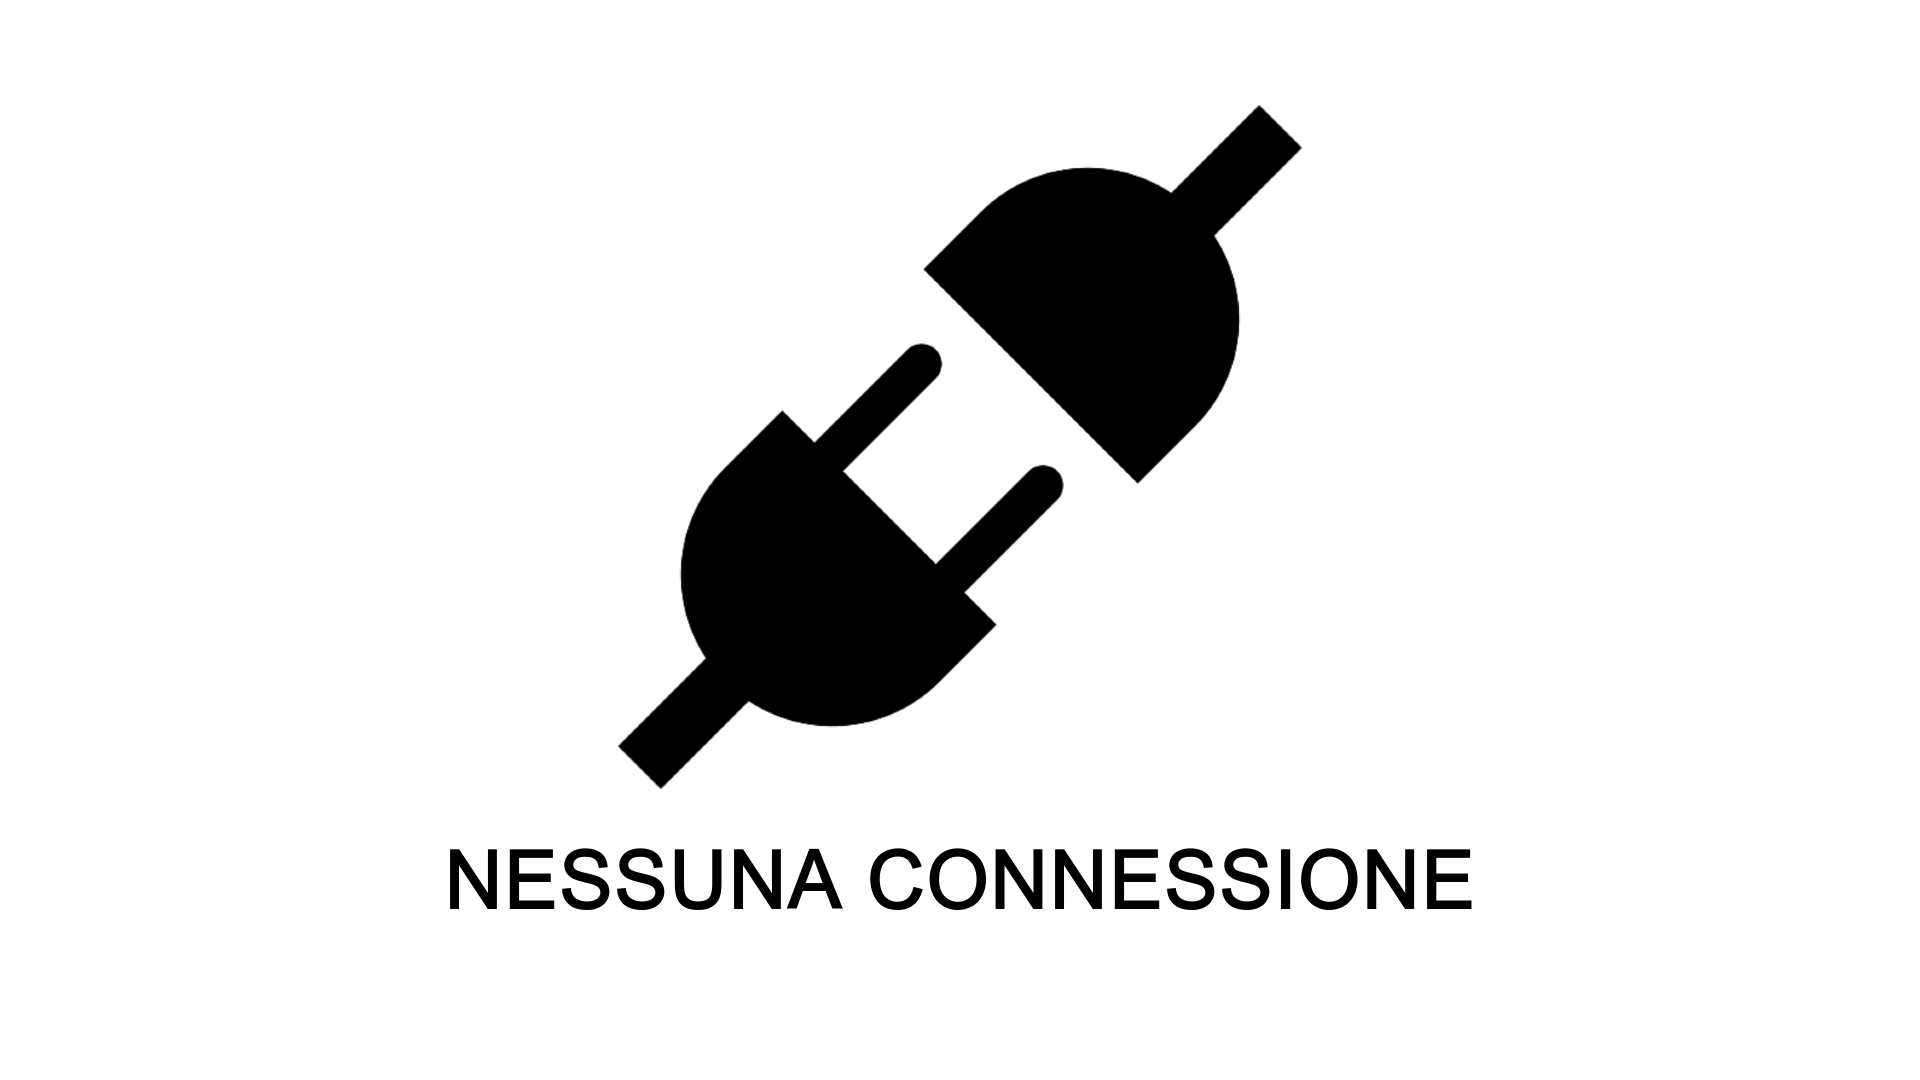
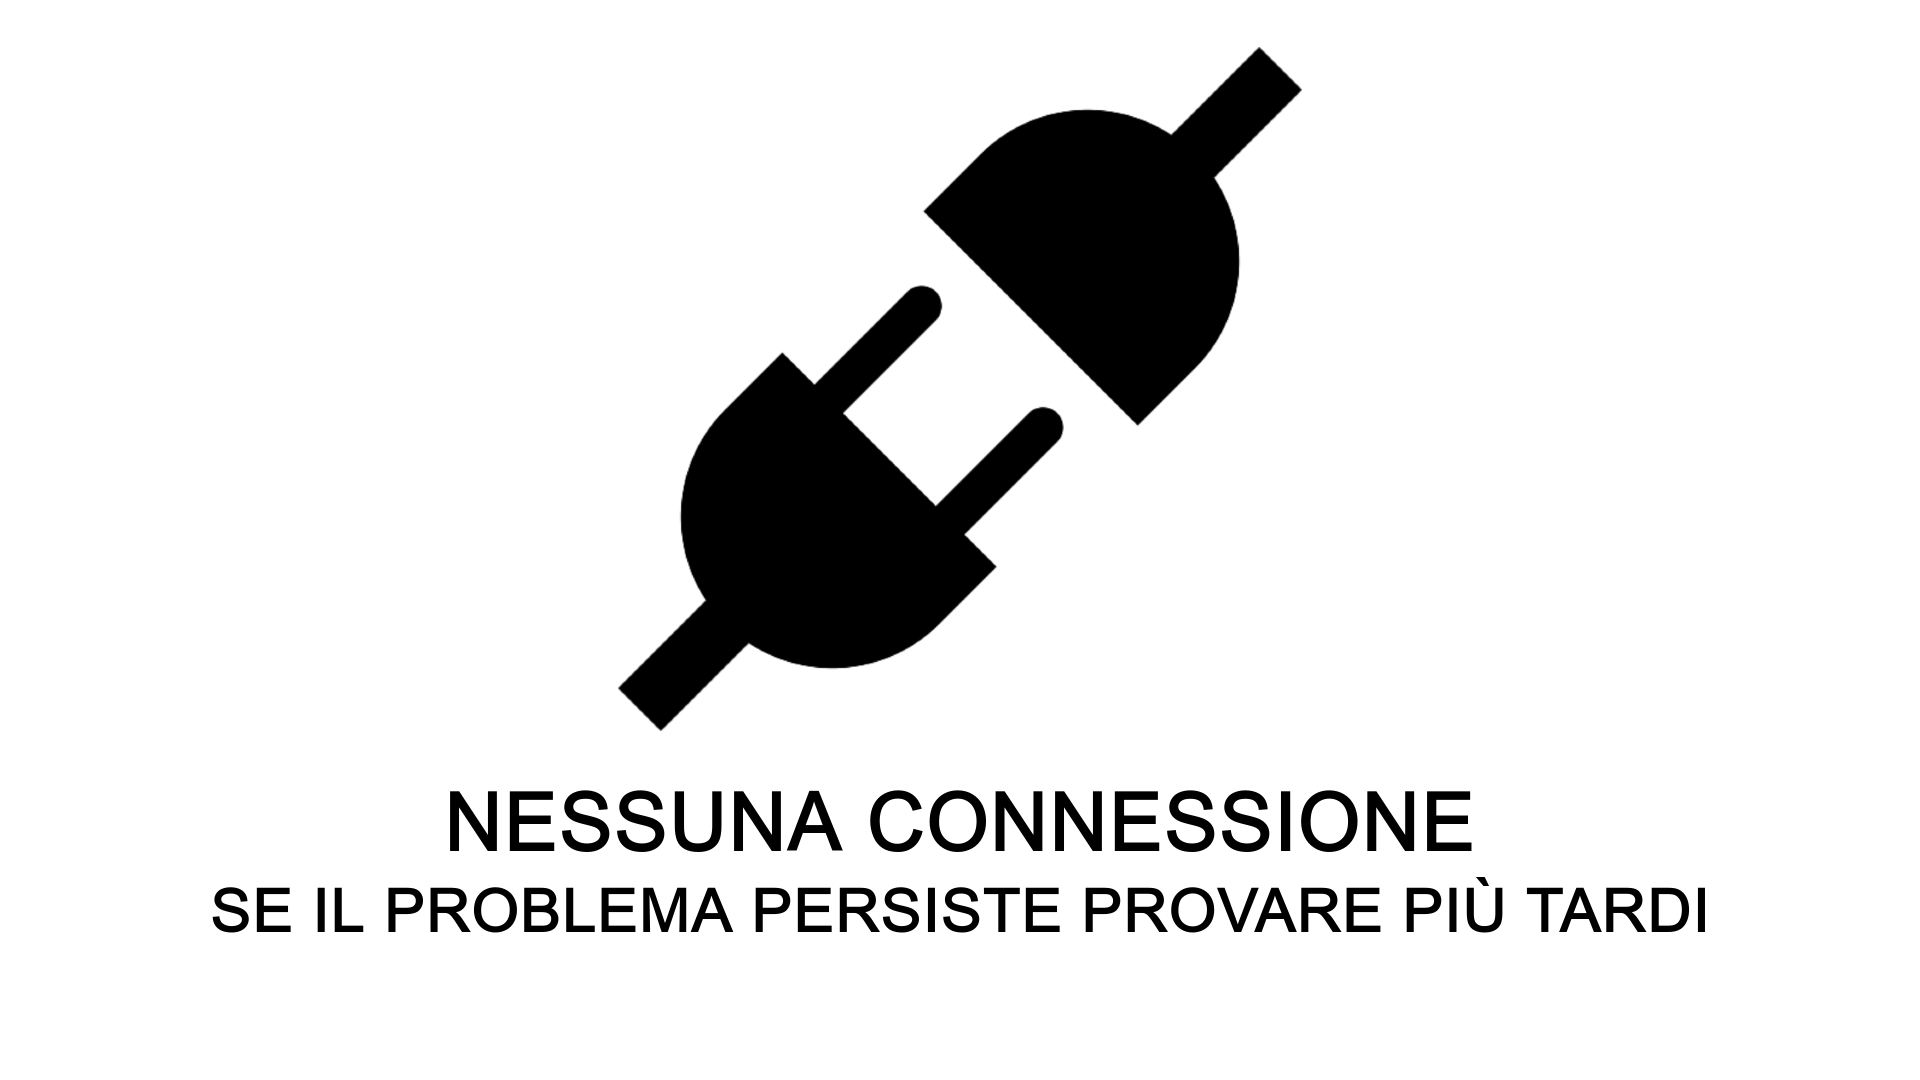
Eseguito testing

Changed region(s): [[0.0938, 0.0306, 0.9062, 0.8861]]

diff --git a/BACK-END/airbdba/utils/connection.js b/BACK-END/airbdba/utils/connection.js
@@ -16,22 +16,24 @@ const sequelize = new Sequelize("new_airbdba", "root", "", {
   },
 });
 
-sequelize
-  .authenticate()
-  .then(() => {
-    console.log("Connesso al database!");
-  })
-  .catch((err) => {
-    console.log("Connessione al database fallita!");
-  });
+db.testConnessione = (req, res, next) => {
+  sequelize
+    .authenticate()
+    .then(() => {
+      next();
+    })
+    .catch((err) => {
+      res.status(404).render("schermataCadutaConnessione");
+    });
+};
 
-// QUESTA FUNZIONE SERVE A SINCRONIZZARE AUTOMATICAMENTE IL DATABASE, INSERENDO LE TABELLE CORRETTE 
+// QUESTA FUNZIONE SERVE A SINCRONIZZARE AUTOMATICAMENTE IL DATABASE, INSERENDO LE TABELLE CORRETTE
 // N.B: Bisogna prima creare uno schema corrispondente a quello assegnato!
 
-/*sequelize
+/* sequelize
   .sync()
   .then(() => console.log("sincronizzazione completata"))
-  .catch((err) => console.log(err.message));*/
+  .catch((err) => console.log(err.message)); */
 
 db.sequelize = sequelize;
 db.Sequelize = Sequelize;

diff --git a/BACK-END/airbdba/controller/HostControl.js b/BACK-END/airbdba/controller/HostControl.js
@@ -141,8 +141,6 @@ const modifica_inserzione_put = async (req, res) => {
       id_ins,
     } = JSON.parse(req.body.inserzione);
 
-    
-
     let path;
     if (req.files["gallery"]) {
       if (imgToSave.length > 0) {
@@ -212,8 +210,10 @@ const cancella_inserzione_delete = async (req, res) => {
     let path =
       `public/uploads/fotoInserzione/` +
       req.session.utente.id +
-      deleteIns.galleryPath.slice(0, 14);
-    //Prendo le email degli utenti associati alle prenotazioni della relativa insserzione 
+      "/" +
+      deleteIns.galleryPath.split("/")[2];
+    console.log(path, deleteIns.galleryPath.split("/"));
+    //Prendo le email degli utenti associati alle prenotazioni della relativa insserzione
     const mailList = await Prenotazione.getEmailUtentiPren(id_inserzione);
     let bodyMail = {
       from: '"Sistema AIRBDBA" <bdba_services@gmail.com> ',

diff --git a/BACK-END/airbdba/app.js b/BACK-END/airbdba/app.js
@@ -46,6 +46,8 @@ app.use(favicon(path.join(__dirname, "public", "favicon.ico")));
 //Cookie parser
 app.use(cookieParser());
 app.use(express.static(path.join(__dirname, "public")));
+//test connessione
+app.use("*", db.testConnessione);
 //express-session
 app.use(
   session({

diff --git a/BACK-END/airbdba/public/stylesheets/home.css b/BACK-END/airbdba/public/stylesheets/home.css
@@ -80,5 +80,8 @@
   }
 }
 
-@media (max-height: 400px) {
+@media (max-width: 330px) {
+  .center-spacer > h1 {
+    font-size: 25px;
+  }
 }

diff --git a/BACK-END/airbdba/public/stylesheets/disconnesso.css b/BACK-END/airbdba/public/stylesheets/disconnesso.css
@@ -46,6 +46,6 @@
   opacity: 0.5;
 }
 
-.back-home {
+.reload {
   margin-bottom: 35px;
 }
